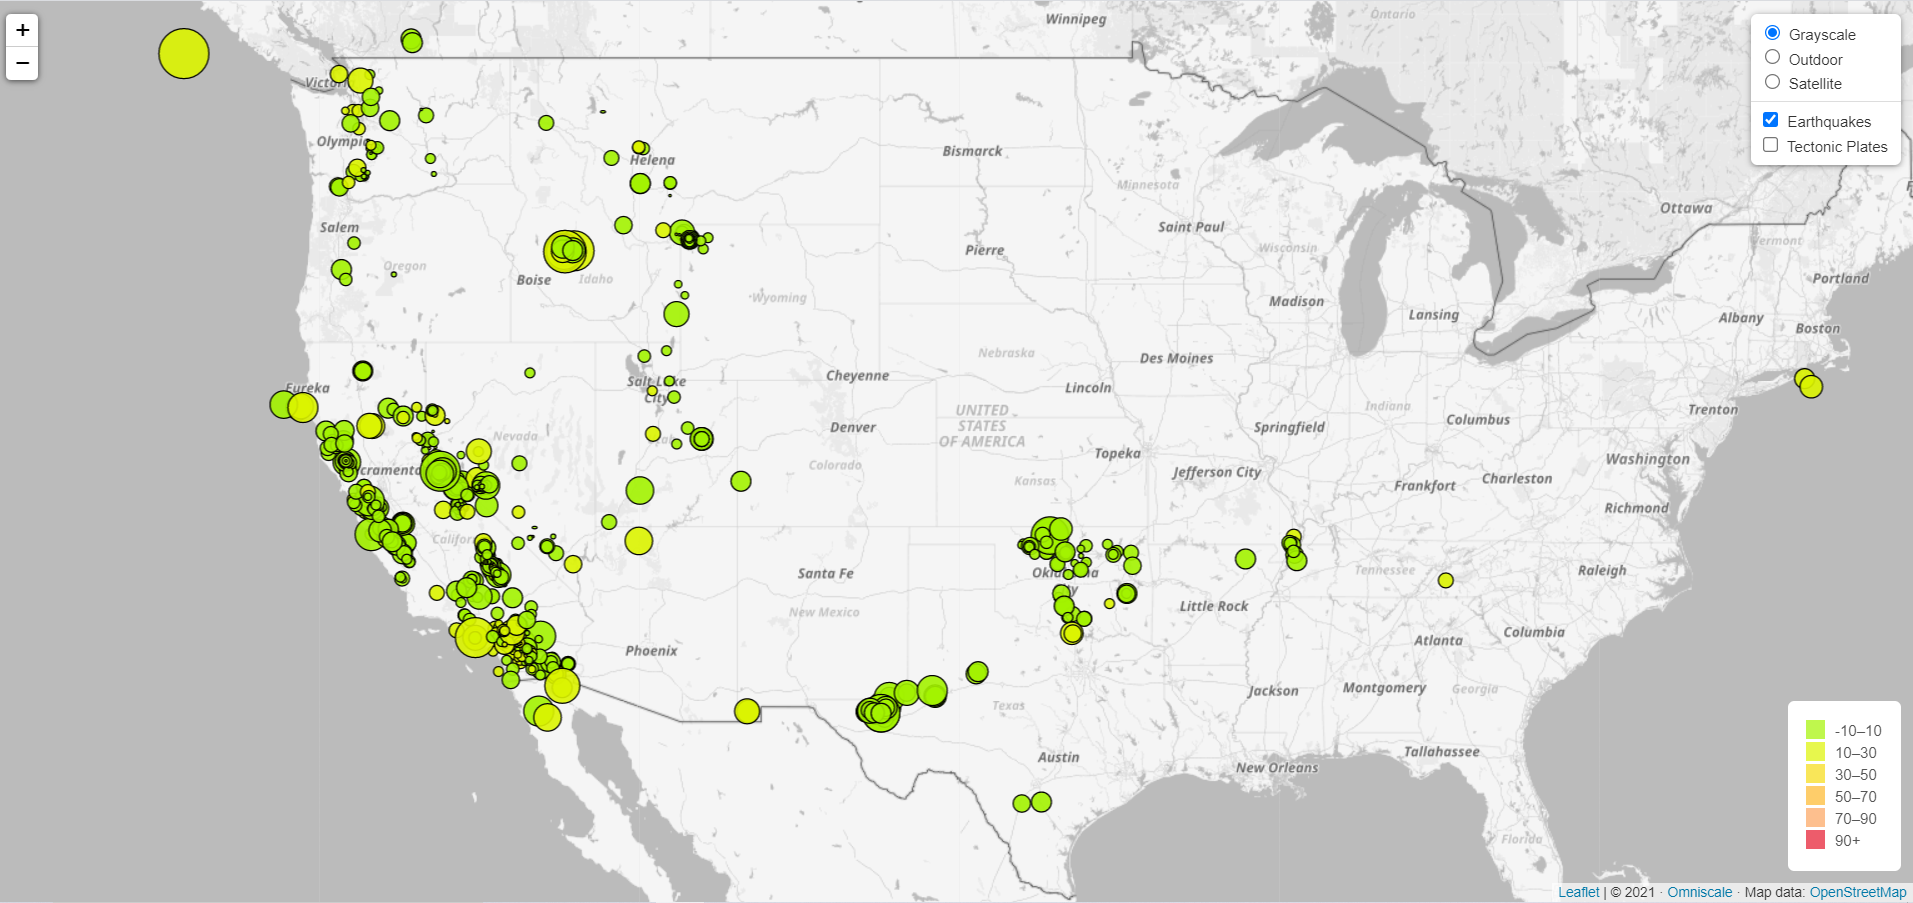
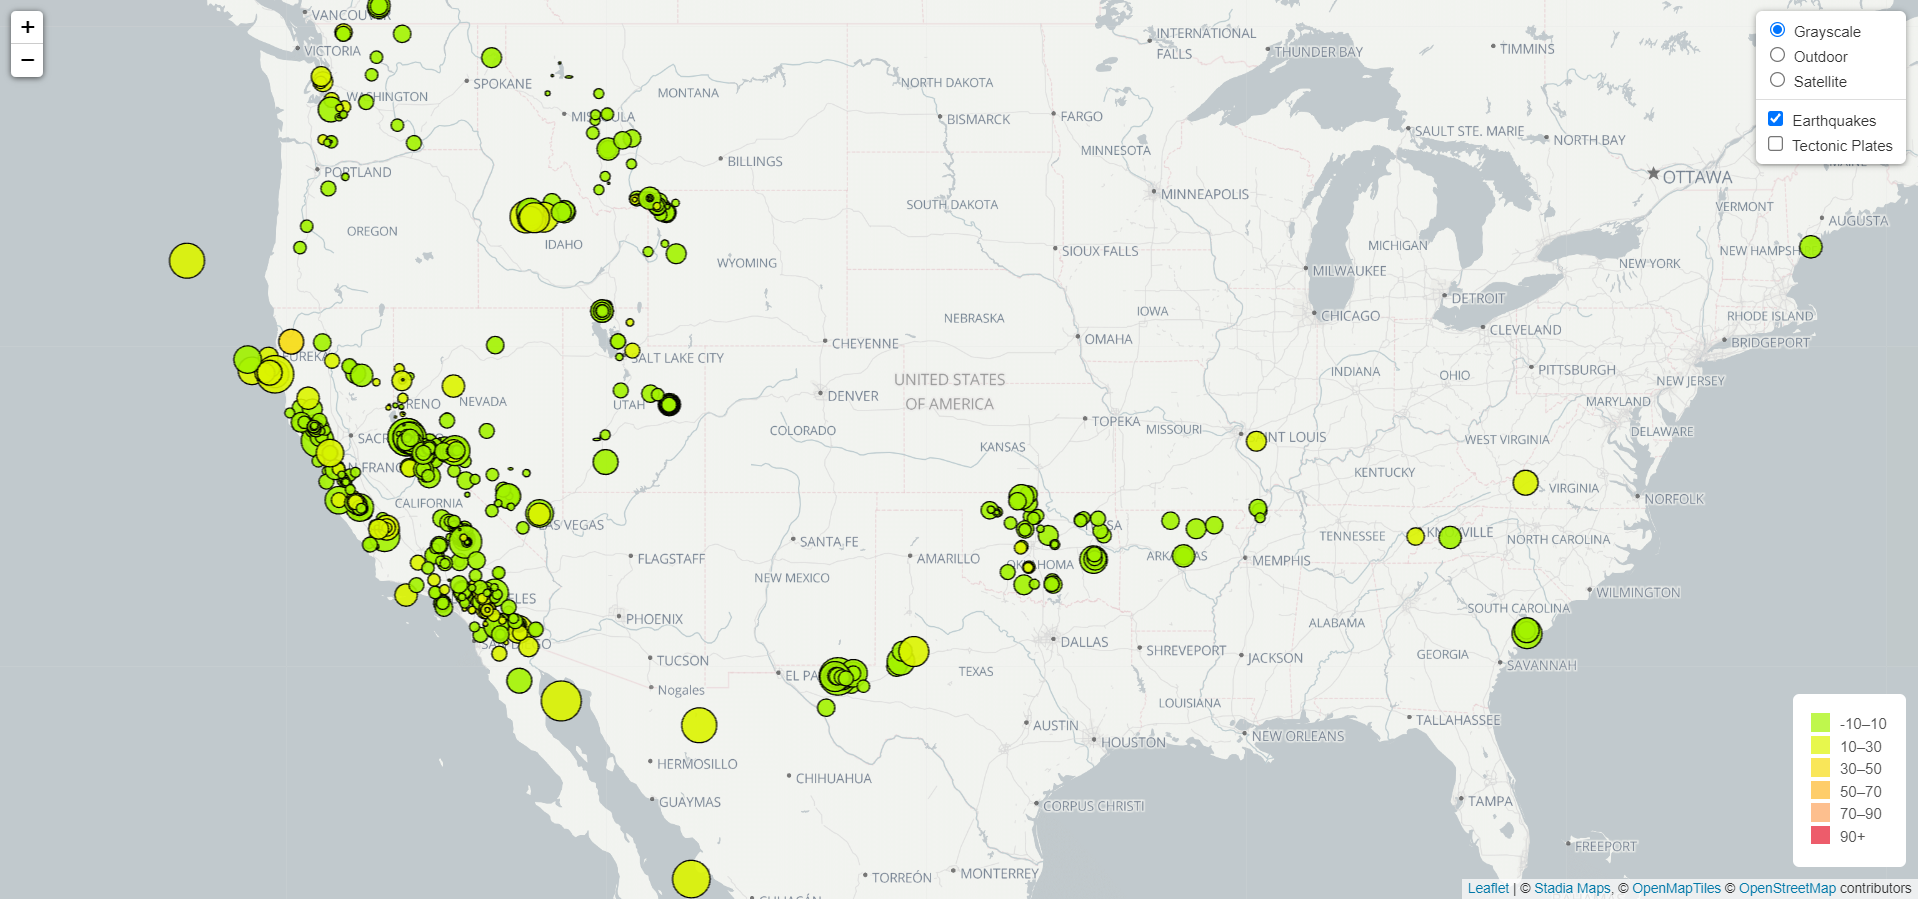
updated grayscale & outdoor tile layers

diff --git a/static/js/logic.js b/static/js/logic.js
@@ -73,18 +73,14 @@ d3.json(url).then(function(data) {
     
 
     //1. Adding the grayscale tile layer
-    var host = 'https://maps.omniscale.net/v2/'+API_KEY+'/style.grayscale/{z}/{x}/{y}.png';
-    var attribution = '&copy; 2021 &middot; <a href="https://maps.omniscale.com/">Omniscale</a> ' +
-        '&middot; Map data: <a href="https://www.openstreetmap.org/copyright">OpenStreetMap</a>';
-    var grayscale = L.tileLayer(host, {
-        attribution: attribution
-      });
+    var grayscale = L.tileLayer('https://tiles.stadiamaps.com/tiles/alidade_smooth/{z}/{x}/{y}{r}.png', {
+      attribution: '&copy; <a href="https://stadiamaps.com/">Stadia Maps</a>, &copy; <a href="https://openmaptiles.org/">OpenMapTiles</a> &copy; <a href="http://openstreetmap.org">OpenStreetMap</a> contributors'
+    });
 
     //2. Adding the outdoors tile layer
-    var host2 = 'https://maps.omniscale.net/v2/'+API_KEY+'/style.default/{z}/{x}/{y}.png';
-    var outdoors = L.tileLayer(host2, {
-        attribution: attribution
-      });
+    var outdoors = L.tileLayer('https://basemap.nationalmap.gov/arcgis/rest/services/USGSTopo/MapServer/tile/{z}/{y}/{x}', {
+      attribution: 'Tiles courtesy of the <a href="https://usgs.gov/">U.S. Geological Survey</a>'
+    });
 
     //3. Adding the satellite view tile layer
     var satellite = L.tileLayer('https://server.arcgisonline.com/ArcGIS/rest/services/World_Imagery/MapServer/tile/{z}/{y}/{x}', {

diff --git a/index.html b/index.html
@@ -25,10 +25,10 @@
   <script src="https://unpkg.com/leaflet@1.6.0/dist/leaflet.js"
     integrity="sha512-gZwIG9x3wUXg2hdXF6+rVkLF/0Vi9U8D2Ntg4Ga5I5BZpVkVxlJWbSQtXPSiUTtC0TjtGOmxa1AJPuV0CPthew=="
     crossorigin=""></script>
+    
   <!-- D3 JavaScript -->
   <script src="https://d3js.org/d3.v5.min.js"></script>
-  <!-- API key -->
-  <script type="text/javascript" src="static/js/config.js"></script>
+
   <!-- Our JavaScript -->
   <script type="text/javascript" src="static/js/logic.js"></script>
 </body>
